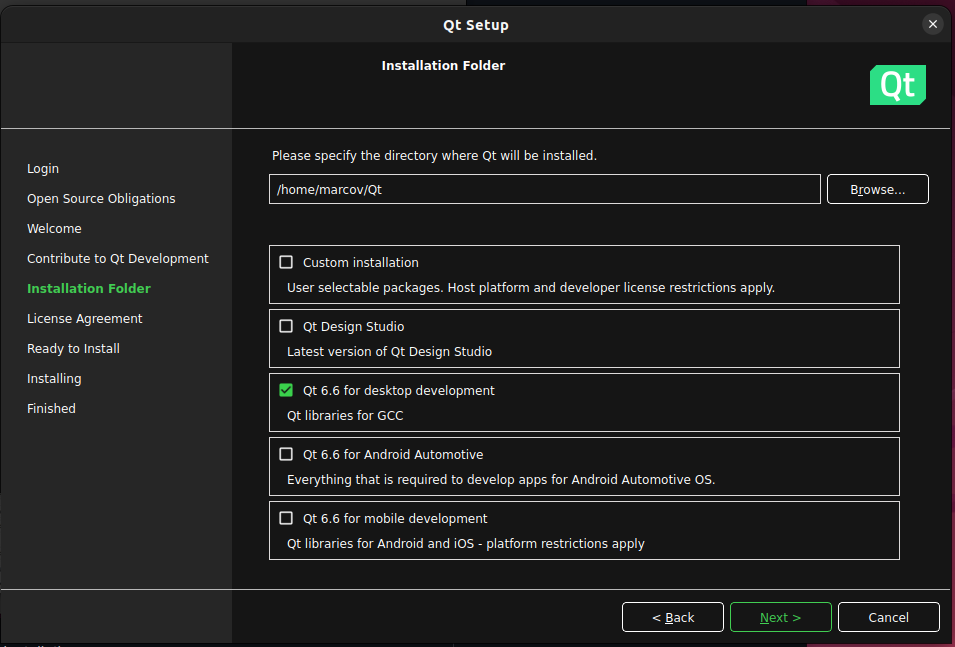
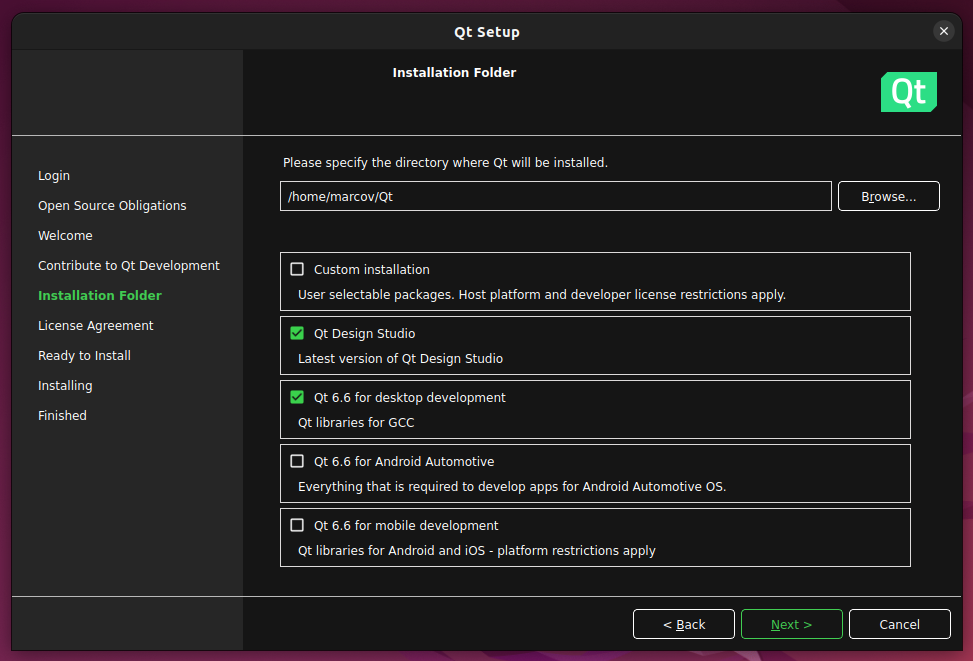
ewr

diff --git a/README.md b/README.md
@@ -80,22 +80,38 @@ Allow or disable sending usage statistics to Qt.
     <img src="https://github.com/Hanqaqa/QtTests/blob/master/Assets/Screens/QtInstall4.PNG" width="40%">
 </p>
 
-Choose Qt 6.6 for desktop development. This will install the latest version of Qt Design Studio, QtCreator and the latest release Qt libraries (6.6.1 as of January 2024).
+Choose Qt 6.6 for desktop development and Qt Design Studio. This will install the latest version of Qt Design Studio, QtCreator and the latest release Qt libraries (6.6.1 as of January 2024).
 
-If you want to install another version of the libraries or plan to do Android or Automotive choose Custom installation
+If you want to install another version of the libraries or plan to do Android or Automotive choose Custom installation.
 
 <p align="center">
     <img src="https://github.com/Hanqaqa/QtTests/blob/master/Assets/Screens/QtInstall5.PNG" width="40%">
 </p>
 
-Accept the Qt license and click Install. If you only chose Qt 6.6 for desktop development the download will be approximately of 2GB.
+Accept all the Qt licences and click Install. If you only chose Qt 6.6 for desktop development the download will be approximately of 3.2GB.
 
 <p align="center">
     <img src="https://github.com/Hanqaqa/QtTests/blob/master/Assets/Screens/QtInstall6.PNG" width="40%">
 </p>
 
-Wait for the installation and click Finish
+Wait for the installation.
 
 <p align="center">
     <img src="https://github.com/Hanqaqa/QtTests/blob/master/Assets/Screens/QtInstall7.PNG" width="40%">
 </p>
+
+Once the installation is finished you can automatically launch Qt
+
+<p align="center">
+    <img src="https://github.com/Hanqaqa/QtTests/blob/master/Assets/Screens/QtInstall8.PNG" width="40%">
+</p>
+
+Switch the Qt Creator to dark mode via Edit->Preferences
+
+Then in the new window click on Environment and change theme to dark. Qt Creator will restart once you apply the flat dark theme
+
+<p align="center">
+    <img src="https://github.com/Hanqaqa/QtTests/blob/master/Assets/Screens/QtInstall9.PNG" width="40%">
+</p>
+
+## 2. First Project:
